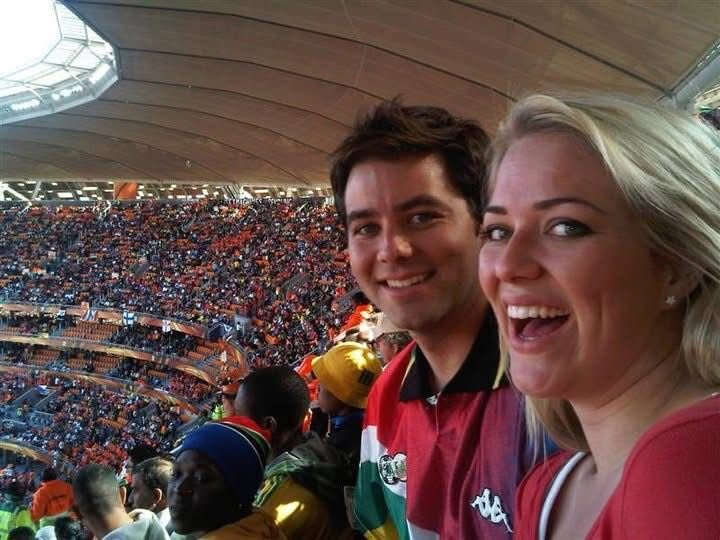
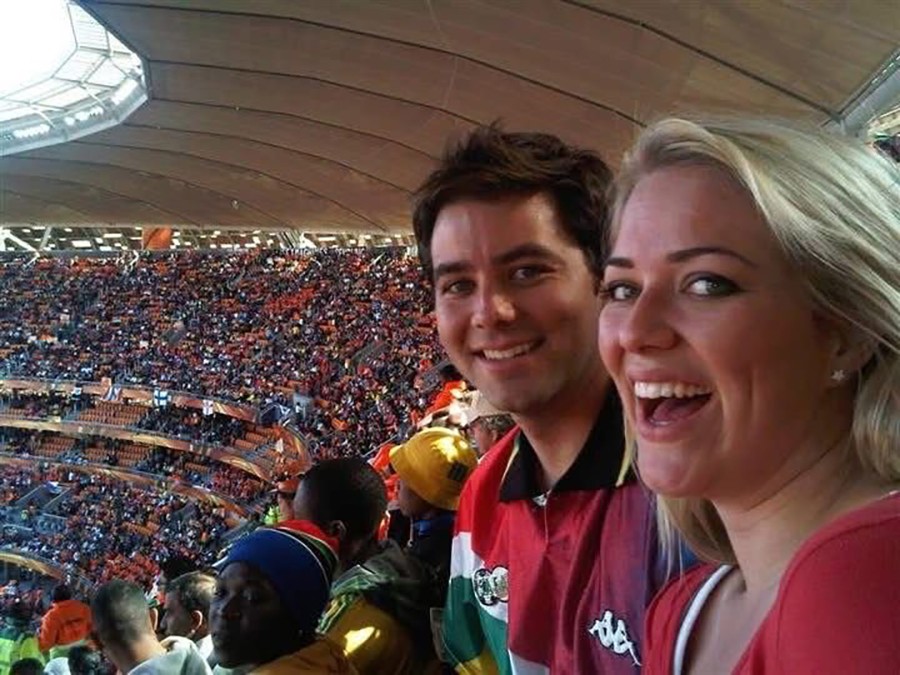
Updated ability to have images on the main areas

diff --git a/app/body.html b/app/body.html
@@ -17,7 +17,7 @@
         .headline-center { display: flex; flex-direction: column; justify-content: center; align-items: center; background: var(--bg); z-index: 10; text-align: center; border: 1px solid #1a1a1a; padding: 20px; grid-column: 3 / 7; grid-row: 3 / 5; }
         .headline-center h1 { font-size: clamp(1.5rem, 5vw, 4rem); margin: 0; font-weight: 900; text-transform: uppercase; line-height: 1; letter-spacing: -1px; }
         .tagline { color: var(--accent); font-size: 0.8rem; font-weight: bold; letter-spacing: 5px; margin-bottom: 12px; text-transform: uppercase; }
-        .ambassador-slot { position: relative; background: #000; overflow: hidden; opacity: 0; transform: scale(0.78); transform-origin: center; animation: gridSlotWaveIn 1.05s cubic-bezier(0.16, 1, 0.3, 1) forwards; animation-delay: calc(var(--slot-wave-order, 0) * 80ms); }
+        .ambassador-slot { position: relative; background: #000; overflow: hidden; opacity: 0; transform: scale(0.78); transform-origin: center; animation: gridSlotWaveIn 8s cubic-bezier(0.16, 1, 0.3, 1) infinite; animation-delay: calc(var(--slot-wave-order, 0) * 80ms); }
         .ambassador-slot.placeholder { background: #2b2b2b; }
         .ambassador-slot.placeholder::before { content: ""; position: absolute; inset: 1px; background: linear-gradient(135deg, #333, #1e1e1e); }
         .ambassador-slot img, .ambassador-slot video { width: 100%; height: 100%; object-fit: cover; object-position: top center; transition: 0.6s cubic-bezier(0.16, 1, 0.3, 1); }
@@ -29,7 +29,8 @@
 
         @keyframes gridSlotWaveIn {
             0% { opacity: 0; transform: scale(0.78); }
-            65% { opacity: 1; transform: scale(1.04); }
+            8.5% { opacity: 1; transform: scale(1.04); }
+            13.125% { opacity: 1; transform: scale(1); }
             100% { opacity: 1; transform: scale(1); }
         }
 
@@ -404,6 +405,7 @@
         };
 
         const groupHeroVideoOverrides = {
+            A: "./images/South-Africa/78066352-d450-475e-b99d-8577b306e003.jpg",
             B: "./images/Switzerland/video/slomo.mp4",
             D: "./images/Turkey/video/slomo.mp4",
             E: "./images/Germany/video/slomo.mp4",
@@ -564,15 +566,31 @@
             return "";
         }
 
+        function renderGroupHeroAsset(assetPath, groupLetter) {
+            if (/\.(mov|mp4|m4v|webm)$/i.test(String(assetPath || ""))) {
+                return `<video src="${escapeHTML(resolveAssetPath(assetPath))}" autoplay loop muted playsinline preload="none"></video>`;
+            }
+
+            if (/\.(gif|jpe?g|png|webp)$/i.test(String(assetPath || ""))) {
+                return `<img src="${escapeHTML(resolveAssetPath(assetPath))}" alt="Group ${escapeHTML(groupLetter)}" loading="lazy">`;
+            }
+
+            return "";
+        }
+
         function getGroupHeroMedia(teamsInGroup, teamData, groupLetter, fallbackGif) {
-            const videoPath = groupHeroVideoOverrides[groupLetter] || teamsInGroup
+            const override = groupHeroVideoOverrides[groupLetter];
+            const overridePath = typeof override === "string" ? override : override && override.path;
+            const overrideMedia = renderGroupHeroAsset(overridePath, groupLetter);
+            if (overrideMedia) return overrideMedia;
+
+            const videoPath = teamsInGroup
                 .map(teamName => findTeamData(teamData, teamName))
                 .map(teamObj => teamObj.video1 || (teamObj.videos || "").split("|").find(Boolean))
                 .find(Boolean);
 
-            if (videoPath) {
-                return `<video src="${escapeHTML(resolveAssetPath(videoPath))}" autoplay loop muted playsinline preload="none"></video>`;
-            }
+            const videoMedia = renderGroupHeroAsset(videoPath, groupLetter);
+            if (videoMedia) return videoMedia;
 
             return `<img src="${escapeHTML(fallbackGif)}" alt="Group ${escapeHTML(groupLetter)}" loading="lazy">`;
         }

diff --git a/app/scripts/prerender-live-page.js b/app/scripts/prerender-live-page.js
@@ -242,15 +242,31 @@ function renderGridMedia(teamObj, teamName, folderName, teamIndex, imageManifest
   return "";
 }
 
+function renderGroupHeroAsset(assetPath, groupLetter) {
+  if (/\.(mov|mp4|m4v|webm)$/i.test(String(assetPath || ""))) {
+    return `<video src="${escapeHTML(assetPath)}" autoplay loop muted playsinline preload="none"></video>`;
+  }
+
+  if (/\.(gif|jpe?g|png|webp)$/i.test(String(assetPath || ""))) {
+    return `<img src="${escapeHTML(assetPath)}" alt="Group ${escapeHTML(groupLetter)}" loading="lazy">`;
+  }
+
+  return "";
+}
+
 function getGroupHeroMedia(teamsInGroup, teamData, groupLetter, fallbackGif, dataAliases, groupHeroVideoOverrides) {
-  const videoPath = groupHeroVideoOverrides[groupLetter] || teamsInGroup
+  const override = groupHeroVideoOverrides[groupLetter];
+  const overridePath = typeof override === "string" ? override : override && override.path;
+  const overrideMedia = renderGroupHeroAsset(overridePath, groupLetter);
+  if (overrideMedia) return overrideMedia;
+
+  const videoPath = teamsInGroup
     .map(teamName => findTeamData(teamData, teamName, dataAliases))
     .map(teamObj => teamObj.video1 || (teamObj.videos || "").split("|").find(Boolean))
     .find(Boolean);
 
-  if (videoPath) {
-    return `<video src="${escapeHTML(videoPath)}" autoplay loop muted playsinline preload="none"></video>`;
-  }
+  const videoMedia = renderGroupHeroAsset(videoPath, groupLetter);
+  if (videoMedia) return videoMedia;
 
   return `<img src="${escapeHTML(fallbackGif)}" alt="Group ${escapeHTML(groupLetter)}" loading="lazy">`;
 }

diff --git a/gulpfile.js b/gulpfile.js
@@ -3,6 +3,7 @@
 // SET THESE VARIABLES
 
 const projectPath = "wc2026SoccerCity" //example: climatechange
+const hostedImageBase = "https://projects-images.thestar.com/" + projectPath + "/images/";
 const macroName = "seaWc2026SoccerCity()" // example: seaClimateChangeSvalbard()
 
 // END SET THESE VARIABLES
@@ -760,6 +761,7 @@ function localURI() {
 
     const html = gulp.src('dist/index.html')
         .pipe(replace("{projectPath}", projectPath))
+        .pipe(replace(/\.\/images\//g, hostedImageBase))
         .pipe(replace("[% paywallStart() %]", "<div id='blox-paywall'>"))
         .pipe(replace("[% subContentStart(); %]", "<div id='blox-subcontent'>"))
         .pipe(replace("[% subContentStop(); %]", "</div>"))
